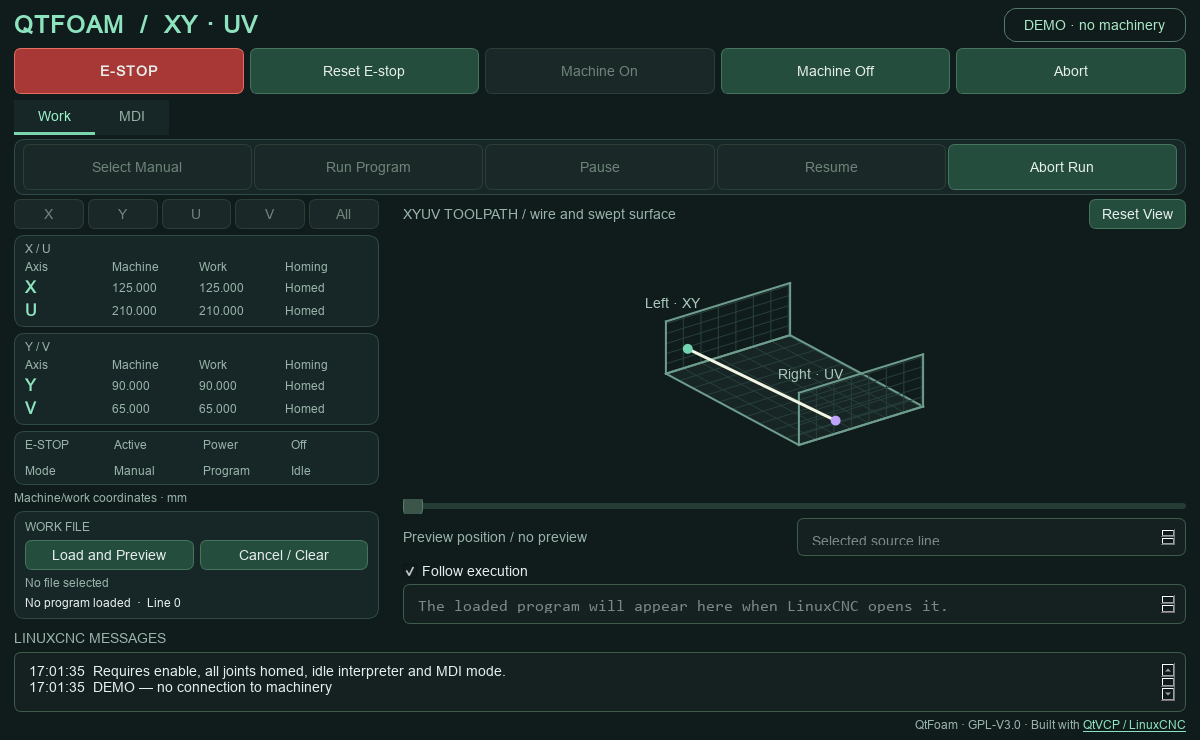
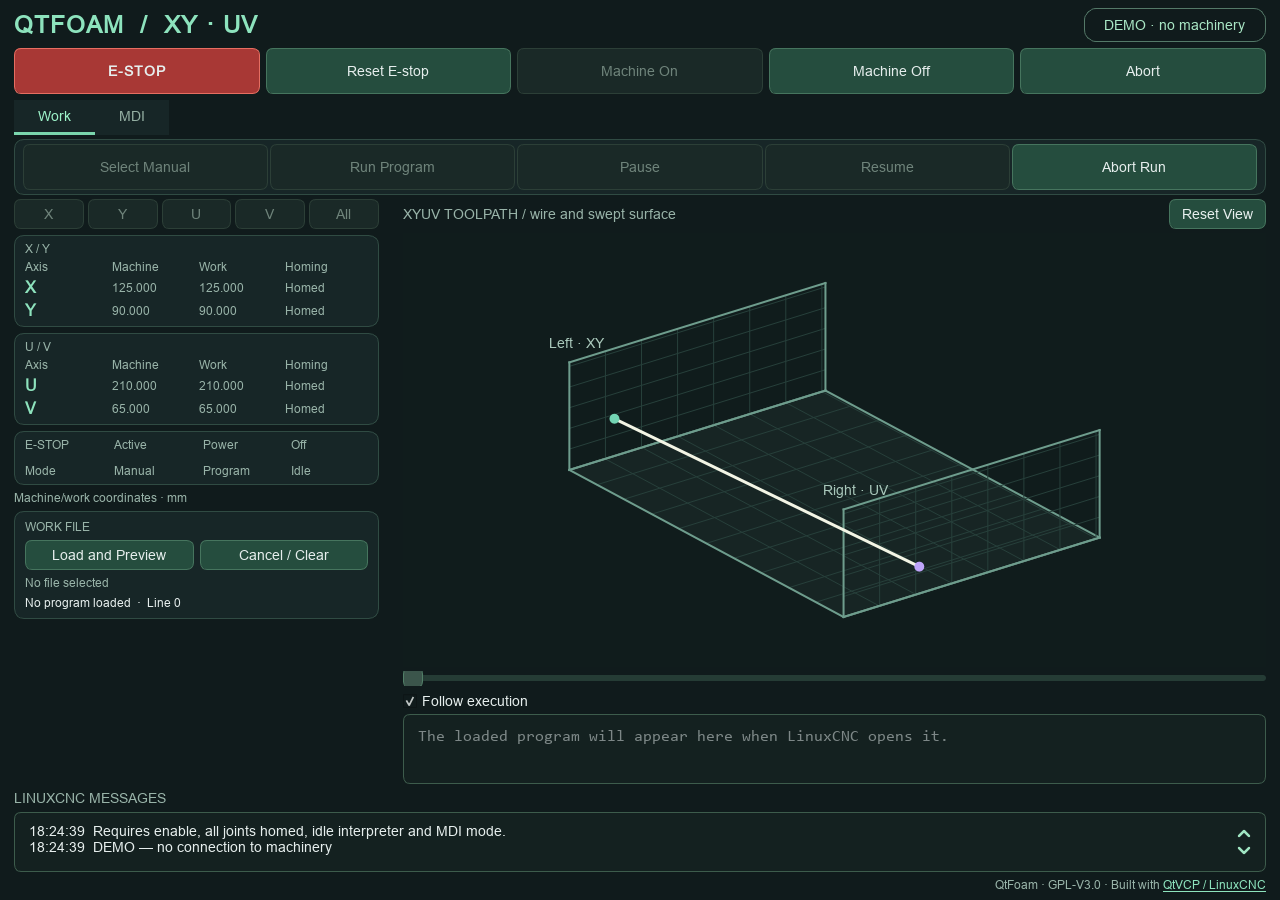
Another iteration of the gui

diff --git a/qtfoam/screen.py b/qtfoam/screen.py
@@ -28,6 +28,7 @@ class Screen(QtWidgets.QWidget):
     def __init__(self, backend, demo=False):
         super().__init__()
         self.backend, self.demo = backend, demo
+        QtCore.QDir.addSearchPath('qtfoam_icons', str(Path(__file__).resolve().parent / 'icons'))
         self.buttons = {}
         self.data = None
         self.history = []
@@ -157,7 +158,7 @@ class Screen(QtWidgets.QWidget):
         layout.addLayout(homing)
         coordinates = QtWidgets.QHBoxLayout()
         self.dro = {}
-        for title, axes in [('X / U', 'XU'), ('Y / V', 'YV')]:
+        for title, axes in [('X / Y', 'XY'), ('U / V', 'UV')]:
             frame, body = card()
             body.setContentsMargins(10, 6, 10, 6)
             body.setSpacing(4)
@@ -266,8 +267,8 @@ class Screen(QtWidgets.QWidget):
         self.dro_view.layout().setSpacing(2)
         self.dro_view.file.setMaximumHeight(20)
         self.dro_view.file.setWordWrap(False)
-        self.dro_view.code.setMinimumHeight(40)
-        self.dro_view.code.setFixedHeight(40)
+        self.dro_view.code.setFixedHeight(
+            2 * self.dro_view.code.fontMetrics().lineSpacing() + 32)
         review.layout().addWidget(self.dro_view)
         empty_row = review.layout().takeAt(1)
         empty_row.layout().deleteLater()
@@ -318,20 +319,11 @@ class Screen(QtWidgets.QWidget):
         self.program_message.setWordWrap(True)
         self.program_controls = frame
         body = layout
-        self.preview_line = label('Preview position / no preview', 'muted')
-        selection = QtWidgets.QHBoxLayout()
-        selection.addWidget(self.preview_line, 1)
-        body.addLayout(selection)
         self.preview_slider = QtWidgets.QSlider(QtCore.Qt.Horizontal)
         self.preview_slider.setRange(0,0)
         self.preview_slider.setEnabled(False)
         self.preview_slider.valueChanged.connect(self.select_preview_step)
-        body.insertWidget(body.count() - 1, self.preview_slider)
-        self.preview_code = QtWidgets.QPlainTextEdit()
-        self.preview_code.setReadOnly(True)
-        self.preview_code.setFixedHeight(38)
-        self.preview_code.setPlaceholderText('Selected source line')
-        selection.addWidget(self.preview_code, 1)
+        body.addWidget(self.preview_slider)
         legend = label('Left drag: rotate | Right drag: tilt | Wheel / middle drag: zoom | Shift + left drag: pan\n'
                        'XY blue / UV purple | G0 dashed orange | Preview wire gold / live wire white', 'muted')
         legend.setWordWrap(True)
@@ -395,8 +387,7 @@ class Screen(QtWidgets.QWidget):
         self.wire.set_preview(None)
         self.preview_slider.setEnabled(False)
         self.preview_slider.setRange(0,0)
-        self.preview_line.setText('Preview unavailable')
-        self.preview_code.clear()
+        self.preview_slider.setToolTip('Preview unavailable')
         self.set_status('preview_message', str(message))
 
     def clear_preview(self):
@@ -411,8 +402,7 @@ class Screen(QtWidgets.QWidget):
         self.preview_file.setToolTip('')
         self.run_file.setText('No file selected')
         self.run_file.setToolTip('')
-        self.preview_line.setText('Preview position / no preview')
-        self.preview_code.clear()
+        self.preview_slider.setToolTip('No preview')
         self.set_status('preview_message', 'Select a UTF-8 .nc or .ngc file. Preview never starts the machine.')
 
     def select_preview_step(self, step):
@@ -421,14 +411,14 @@ class Screen(QtWidgets.QWidget):
             return
         self.wire.set_preview_step(step)
         if step == 0:
-            self.preview_line.setText('Starting wire / captured machine position')
-            self.preview_code.clear()
+            self.preview_slider.setToolTip('Starting wire / captured machine position')
         else:
             segment = data['segments'][step-1]
             line = segment['line']
-            self.preview_line.setText('Move %s / %s | Source line %s | %s' %
-                (step,len(data['segments']),line,'G0 rapid' if segment['kind']=='rapid' else 'G1 feed'))
-            self.preview_code.setPlainText(self.preview_source[line-1] if line <= len(self.preview_source) else '')
+            source = self.preview_source[line-1] if line <= len(self.preview_source) else ''
+            self.preview_slider.setToolTip('Move %s / %s | Source line %s | %s\n%s' %
+                (step, len(data['segments']), line,
+                 'G0 rapid' if segment['kind'] == 'rapid' else 'G1 feed', source))
 
     def cleanup(self):
         self.closing = True

diff --git a/tests/test_screen.py b/tests/test_screen.py
@@ -134,6 +134,10 @@ class ScreenTests(unittest.TestCase):
                          ['Work', 'MDI'])
         self.assertTrue(screen.wire.isVisible())
         self.assertTrue(screen.preview_slider.isVisible())
+        self.assertFalse(hasattr(screen, 'preview_code'))
+        self.assertFalse(hasattr(screen, 'preview_line'))
+        self.assertGreaterEqual(screen.dro_view.code.height(),
+                                2 * screen.dro_view.code.fontMetrics().lineSpacing() + 24)
         self.assertTrue(screen.dro_view.isVisible())
         self.assertTrue(screen.preview_load.isVisible())
         self.assertGreater(screen.wire.width(), 600)
@@ -250,8 +254,8 @@ class ScreenTests(unittest.TestCase):
         self.assertIsNotNone(screen.wire.preview,screen.preview_message.text())
         self.assertTrue(screen.preview_slider.isEnabled())
         screen.preview_slider.setValue(2)
-        self.assertIn('Source line 11',screen.preview_line.text())
-        self.assertIn('F1.4428',screen.preview_code.toPlainText())
+        self.assertIn('Source line 11',screen.preview_slider.toolTip())
+        self.assertIn('F1.4428',screen.preview_slider.toolTip())
         self.assertEqual(screen.wire.preview_step,2)
         screen.clear_preview()
         self.assertIsNone(screen.wire.preview)

diff --git a/README.md b/README.md
@@ -32,7 +32,7 @@ on the left. It uses a [Mesa 7I96S controller](https://store.mesanet.com/index.p
 ## Current features
 
 - Always-visible ESTOP, Reset E-stop, Machine On/Off and Abort controls.
-- Work: compact X/Y/U/V/All homing, X/U and Y/V machine/work coordinates,
+- Work: compact X/Y/U/V/All homing, XY and UV machine/work coordinates,
   machine state and file loading on the left; toolpath and preview slider on the right.
 - Toolpath: native, draggable QPainter XYUV view with live wire position,
   G-code file selection, endpoint paths, swept surfaces and a source-line slider.
